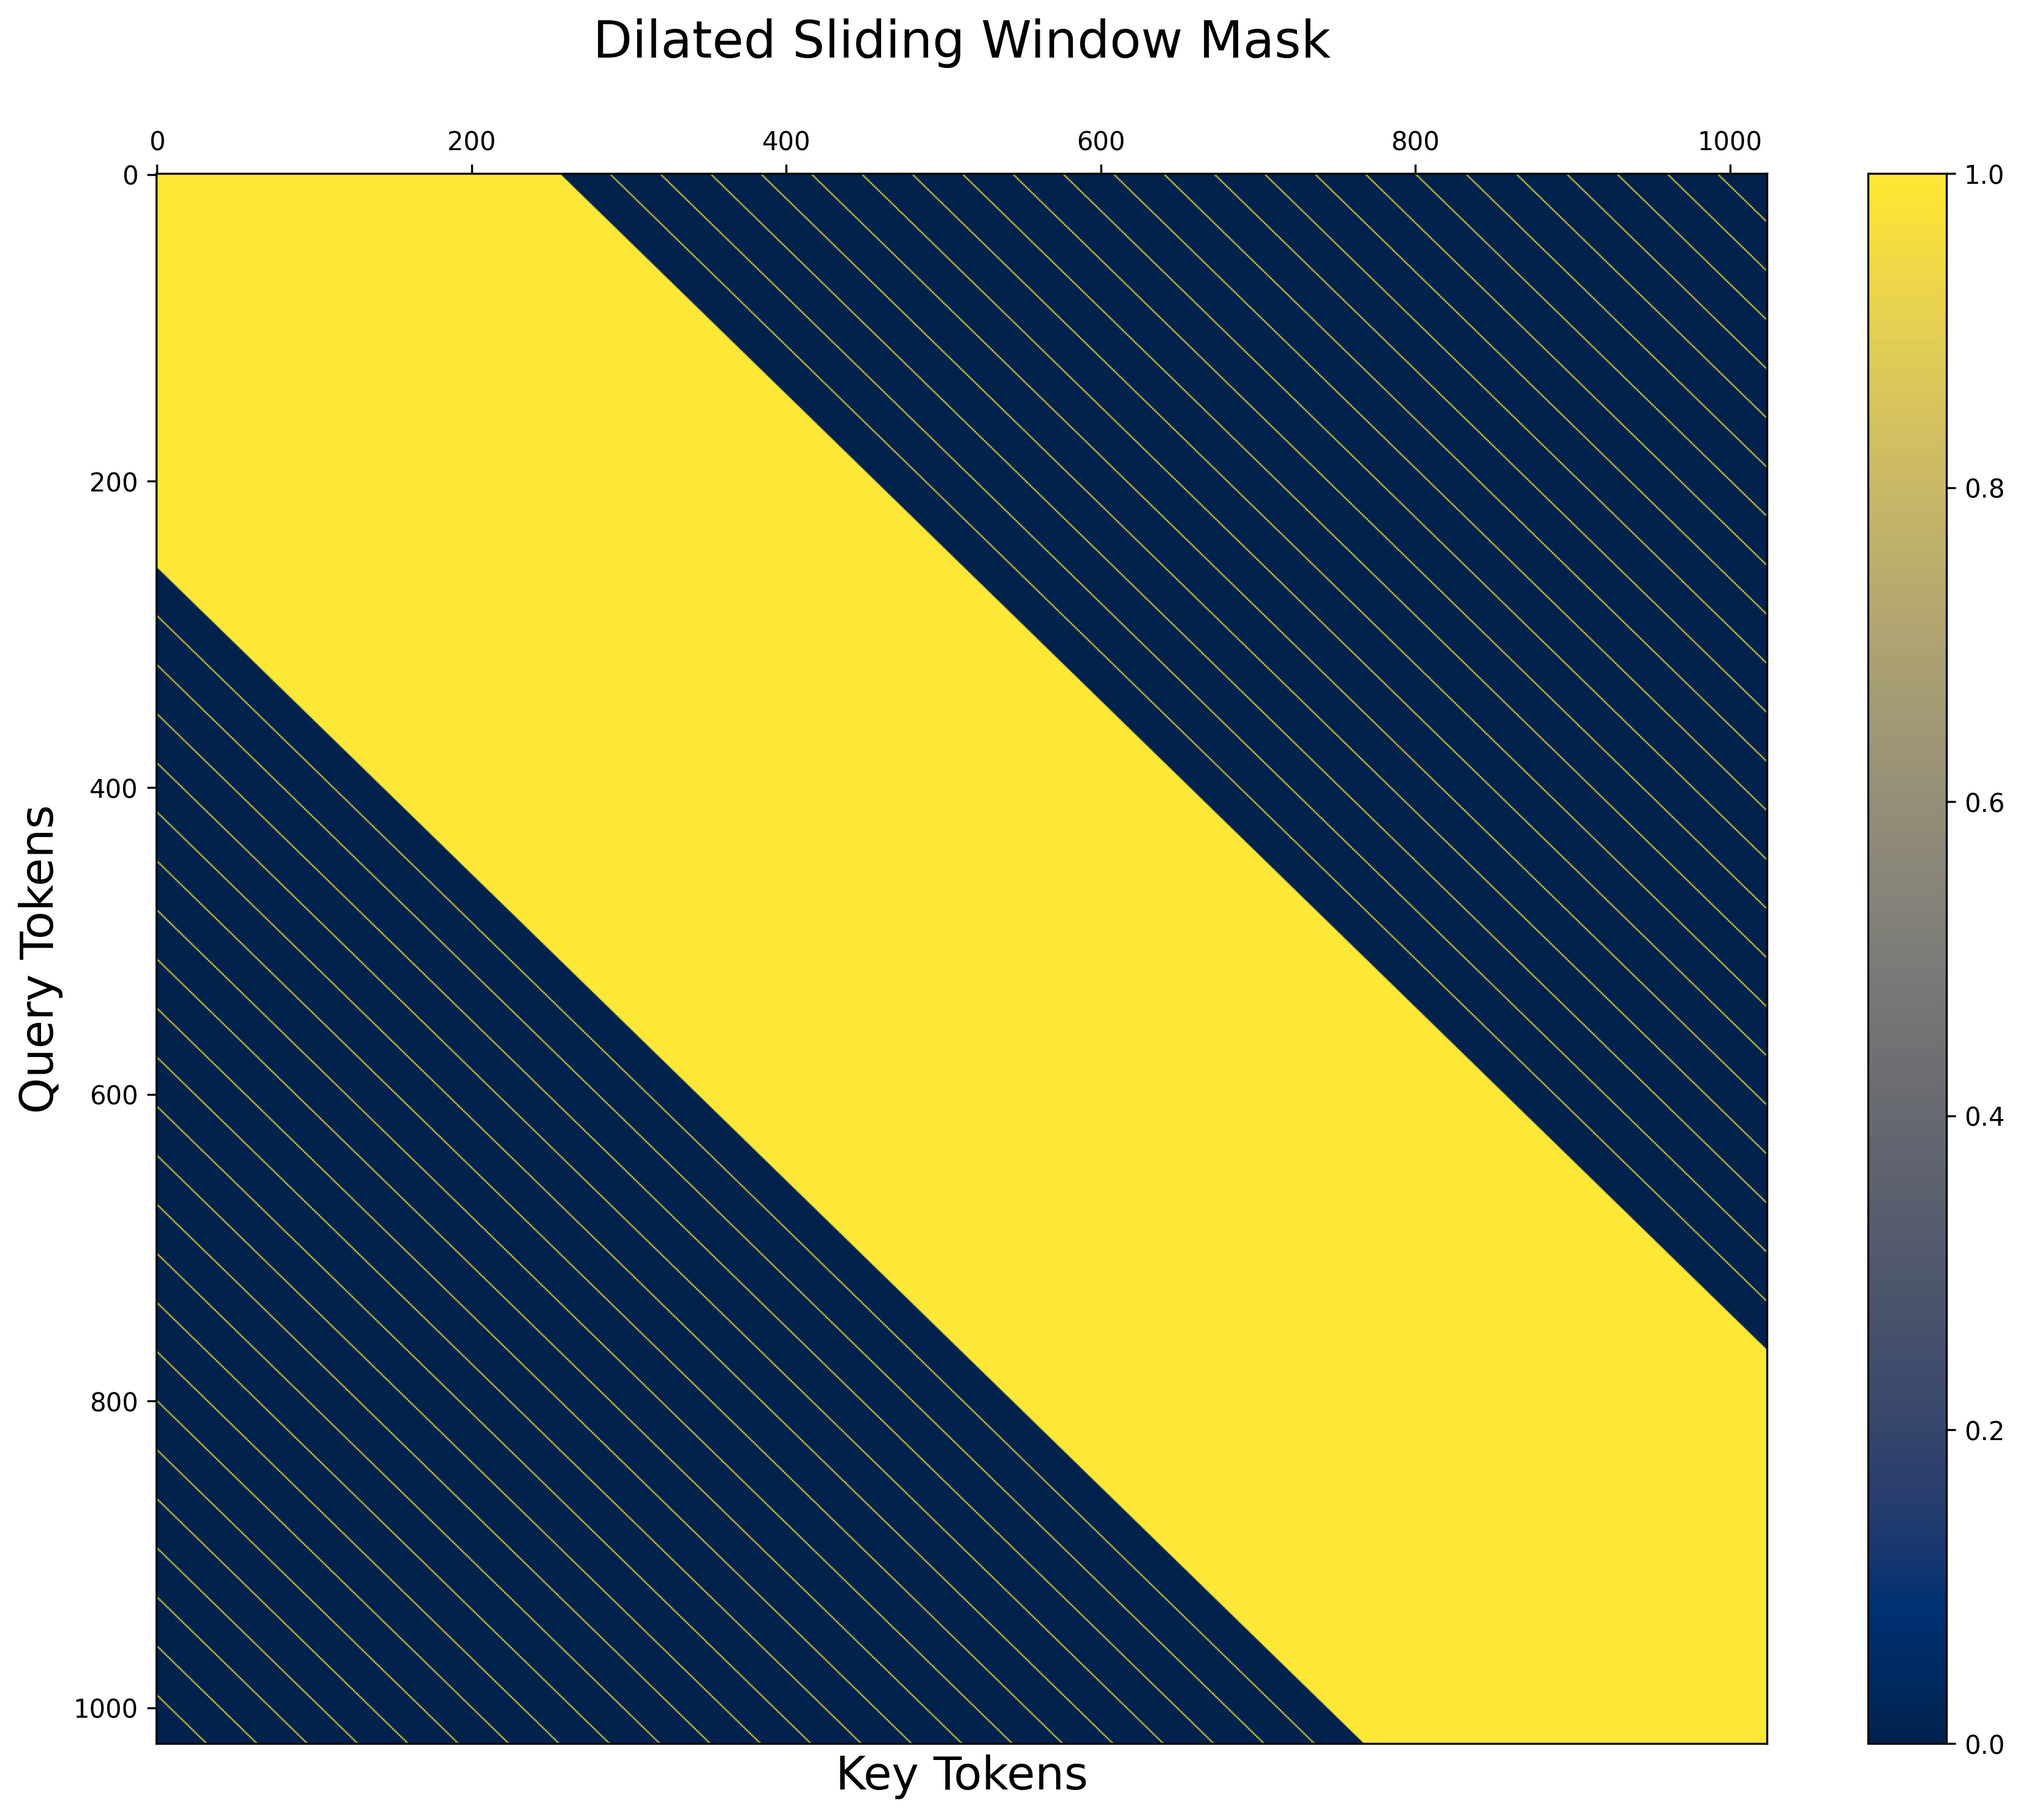
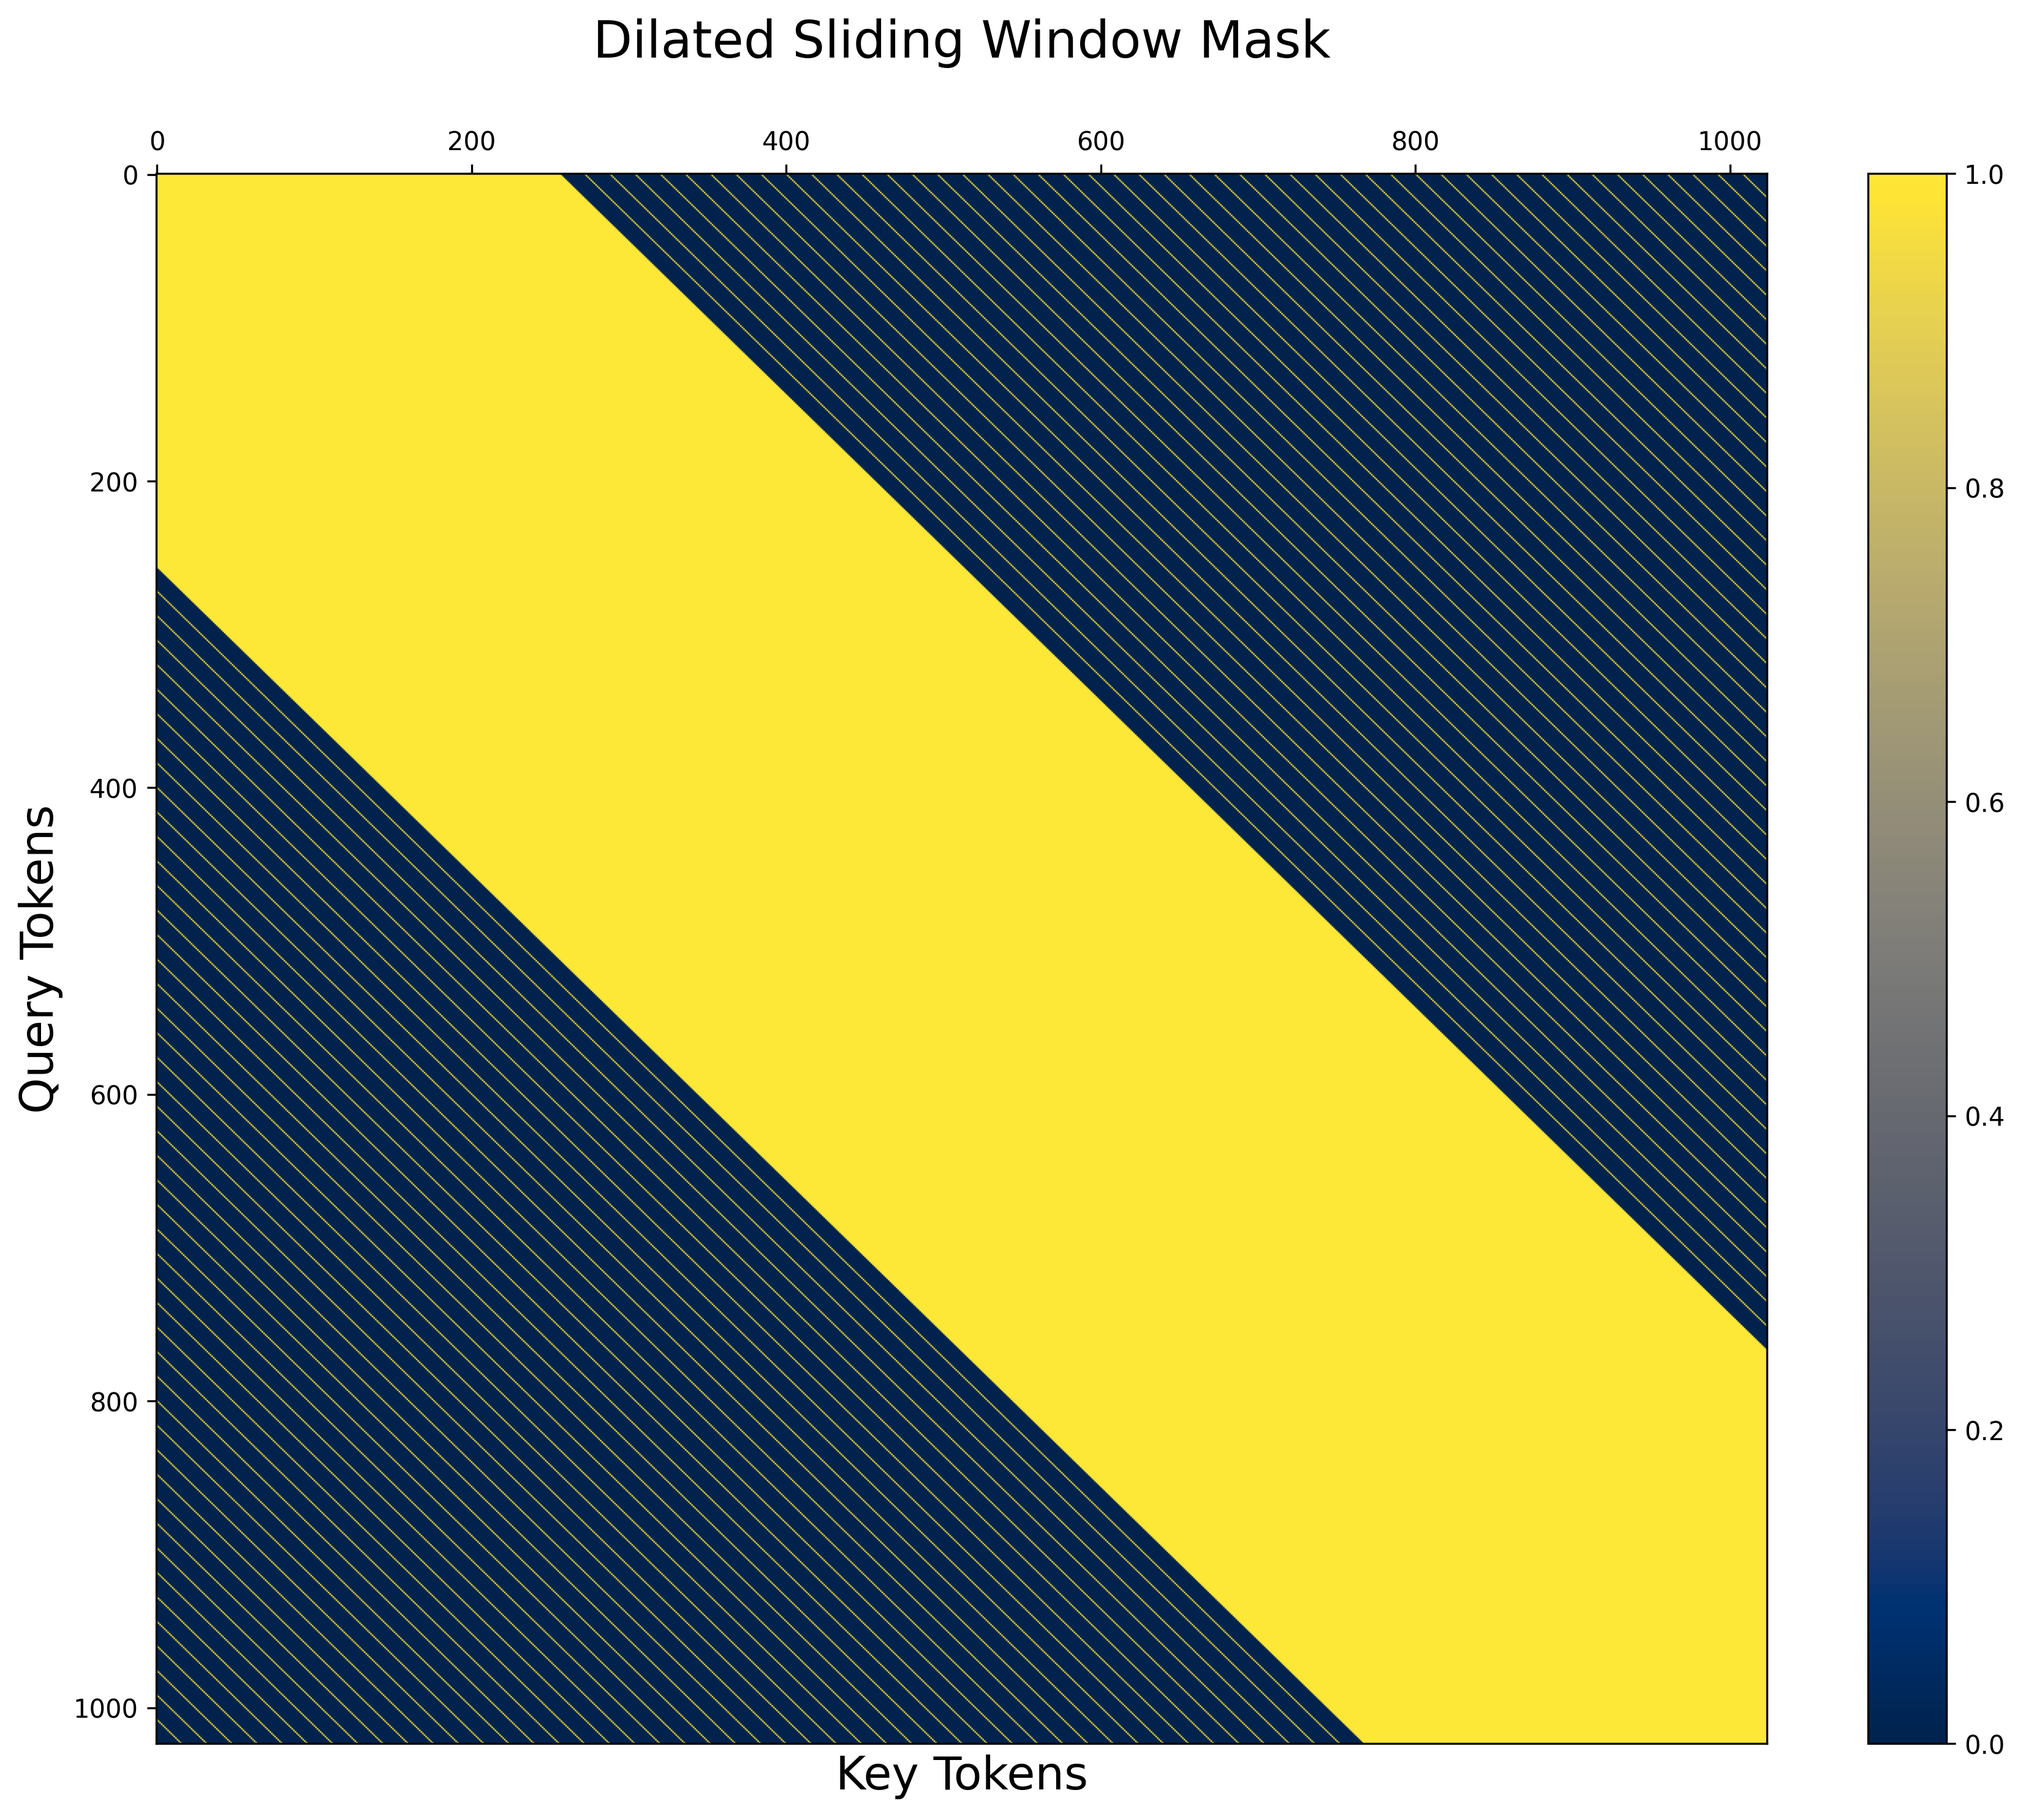
u

diff --git a/data/dataset_classes.py b/data/dataset_classes.py
@@ -2,6 +2,7 @@ import random
 from typing import List
 from torch.utils.data import Dataset as TorchDataset
 from torch.utils.data import IterableDataset
+from tqdm import tqdm
 
 """
 FromList takes lists of matched data
@@ -40,24 +41,25 @@ class SequenceDatasetFromList(TorchDataset):
 
 class SequenceDatasetFromHF(TorchDataset):    
     def __init__(self, dataset, col_name='seqs', **kwargs):
-        self.dataset = dataset
-        self.col_name = col_name
+        self.seqs = dataset[col_name]
+        self.lengths = [len(seq) for seq in tqdm(self.seqs, desc="Calculating sequence lengths")]
 
     def avg(self):
-        raise NotImplementedError("avg() is not efficiently implemented for HF datasets.")
+        return sum(self.lengths) / len(self.lengths)
 
     def __len__(self):
-        return len(self.dataset)
+        return len(self.seqs)
     
     def __getitem__(self, idx):
-        return self.dataset[idx][self.col_name]
+        seq = self.seqs[idx]
+        return seq
 
 
 class SequenceLabelDatasetFromLists(TorchDataset):
     def __init__(self, seqs, labels, **kwargs):
         self.seqs = seqs
         self.labels = labels
-        self.lengths = [len(seq) for seq in self.seqs]
+        self.lengths = [len(seq) for seq in tqdm(self.seqs, desc="Calculating sequence lengths")]
 
     def avg(self):
         return sum(self.lengths) / len(self.lengths)
@@ -73,19 +75,20 @@ class SequenceLabelDatasetFromLists(TorchDataset):
 
 class SequenceLabelDatasetFromHF(TorchDataset):    
     def __init__(self, dataset, col_name='seqs', label_col='labels', **kwargs):
-        self.dataset = dataset
-        self.col_name = col_name
-        self.label_col = label_col
+        self.seqs = dataset[col_name]
+        self.labels = dataset[label_col]
+        self.lengths = [len(seq) for seq in tqdm(self.seqs, desc="Calculating sequence lengths")]
 
     def avg(self):
-        raise NotImplementedError("avg() is not efficiently implemented for HF datasets.")
+        return sum(self.lengths) / len(self.lengths)
 
     def __len__(self):
-        return len(self.dataset)
+        return len(self.seqs)
     
     def __getitem__(self, idx):
-        item = self.dataset[idx]
-        return item[self.col_name], item[self.label_col]
+        seq = self.seqs[idx]
+        label = self.labels[idx]
+        return seq, label
 
 
 class PairDatasetTrainFromLists(TorchDataset):
@@ -125,41 +128,37 @@ class PairDatasetTestFromLists(TorchDataset):
 
 class PairDatasetTrainHF(TorchDataset):
     def __init__(self, data, col_a, col_b, label_col, **kwargs):
-        self.dataset = data
-        self.col_a = col_a
-        self.col_b = col_b
-        self.label_col = label_col
+        self.seqs_a = data[col_a]
+        self.seqs_b = data[col_b]
+        self.labels = data[label_col]
 
     def avg(self):
-        raise NotImplementedError("avg() is not efficiently implemented for HF datasets.")
+        return sum(len(seqa) + len(seqb) for seqa, seqb in zip(self.seqs_a, self.seqs_b)) / len(self.seqs_a)
 
     def __len__(self):
-        return len(self.dataset)
+        return len(self.seqs_a)
 
     def __getitem__(self, idx):
-        item = self.dataset[idx]
-        seq_a, seq_b = item[self.col_a], item[self.col_b]
+        seq_a, seq_b = self.seqs_a[idx], self.seqs_b[idx]
         if random.random() < 0.5:
             seq_a, seq_b = seq_b, seq_a
-        return seq_a, seq_b, item[self.label_col]
+        return seq_a, seq_b, self.labels[idx]
     
 
 class PairDatasetTestHF(TorchDataset):
     def __init__(self, data, col_a, col_b, label_col, **kwargs):
-        self.dataset = data
-        self.col_a = col_a
-        self.col_b = col_b
-        self.label_col = label_col
+        self.seqs_a = data[col_a]
+        self.seqs_b = data[col_b]
+        self.labels = data[label_col]
 
     def avg(self):
-        raise NotImplementedError("avg() is not efficiently implemented for HF datasets.")
+        return sum(len(seqa) + len(seqb) for seqa, seqb in zip(self.seqs_a, self.seqs_b)) / len(self.seqs_a)
 
     def __len__(self):
-        return len(self.dataset)
+        return len(self.seqs_a)
 
     def __getitem__(self, idx):
-        item = self.dataset[idx]
-        return item[self.col_a], item[self.col_b], item[self.label_col]
+        return self.seqs_a[idx], self.seqs_b[idx], self.labels[idx]
     
 
 class NWDataset(TorchDataset):

diff --git a/models/flex_tester.py b/models/flex_tester.py
@@ -215,7 +215,7 @@ if __name__ == "__main__":
 
     query, key = make_tensor(), make_tensor()
 
-    dilated_sliding_window_mask = generate_dilated_sliding_window(window_size=256, dilation=32)
+    dilated_sliding_window_mask = generate_dilated_sliding_window(window_size=256, dilation=16)
     visualize_attention_scores(
         query,
         key,
